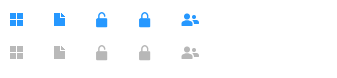
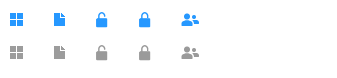
필터 팝업레이어 디자인 수정

diff --git a/mago3d-user/src/main/resources/static/css/ko/user-style.css b/mago3d-user/src/main/resources/static/css/ko/user-style.css
@@ -5442,23 +5442,23 @@ span.sumnail {float:right; width:50px; height:50px; border:1px solid #e9e8e8;}
 .layer-ttl-large {clear:both; display:block; width:auto; height:28px; font-size:18px; border-bottom:1px solid #d9dadb; margin-bottom:10px;}
 .layer-bx {display:flex; flex-wrap:wrap; width:100%; margin:0 auto;}
 .layer-bx .layer-list {display:inline-block; width:55px; text-align:center; margin-bottom:10px;}
-.layer-bx .layer-list .icon {display:inline-block; width:24px; height:24px; cursor:pointer; margin-bottom:3px; text-align:center;  border-radius:50px; border:1px solid #d9dadb;}
+.layer-bx .layer-list .icon {display:inline-block; width:26px; height:26px; cursor:pointer; margin-bottom:3px; text-align:center;  border-radius:50px; border:1px solid #ededed;}
 .layer-bx .layer-list .txt {clear:both; width:55px;  display:inline-block; color:#636363; font-size:11px; text-align:center;}
-.layer-bx .layer-list .common {display:inline-block; background:url(/images/ko/ic_filter.png) -4px -40px no-repeat;}
-.layer-bx .layer-list .open {display:inline-block; background:url(/images/ko/ic_filter.png) -89px -40px no-repeat;}
-.layer-bx .layer-list .notopen {display:inline-block; background:url(/images/ko/ic_filter.png) -132px -40px no-repeat;}
-.layer-bx .layer-list .group {display:inline-block; background:url(/images/ko/ic_filter.png) -177px -40px no-repeat;}
-.layer-bx .layer-list .file {display:inline-block; background:url(/images/ko/ic_filter.png) -47px -40px no-repeat;}
-.layer-bx .layer-list .common:hover, .layer-bx .layer-list .common:focus {display:inline-block; background:url(/images/ko/ic_filter.png) -4px -7px no-repeat;}
+.layer-bx .layer-list .common {display:inline-block; background:#f6f6f6 url(/images/ko/ic_filter.png) -3px -39px no-repeat;}
+.layer-bx .layer-list .open {display:inline-block; background:#f6f6f6 url(/images/ko/ic_filter.png) -89px -40px no-repeat;}
+.layer-bx .layer-list .notopen {display:inline-block; background:#f6f6f6 url(/images/ko/ic_filter.png) -132px -40px no-repeat;}
+.layer-bx .layer-list .group {display:inline-block; background:#f6f6f6 url(/images/ko/ic_filter.png) -177px -40px no-repeat;}
+.layer-bx .layer-list .file {display:inline-block; background:#f6f6f6 url(/images/ko/ic_filter.png) -46px -39px no-repeat;}
+.layer-bx .layer-list .common:hover, .layer-bx .layer-list .common:focus {display:inline-block; background:url(/images/ko/ic_filter.png) -3px -6px no-repeat;}
 .layer-bx .layer-list .open:hover, .layer-bx .layer-list .open:focus {display:inline-block; background:url(/images/ko/ic_filter.png) -89px -7px no-repeat;}
 .layer-bx .layer-list .notopen:hover, .layer-bx .layer-list .notopen:focus {display:inline-block; background:url(/images/ko/ic_filter.png) -132px -7px no-repeat;}
 .layer-bx .layer-list .group:hover, .layer-bx .layer-list .group:focus {display:inline-block; background:url(/images/ko/ic_filter.png) -177px -7px no-repeat;}
-.layer-bx .layer-list .file:hover, .layer-bx .layer-list .file:focus {display:inline-block; background:url(/images/ko/ic_filter.png) -47px -7px no-repeat;}
-.layer-bx .layer-list.on .common {display:inline-block; background:url(/images/ko/ic_filter.png) -4px -7px no-repeat;}
+.layer-bx .layer-list .file:hover, .layer-bx .layer-list .file:focus {display:inline-block; background:url(/images/ko/ic_filter.png) -46px -6px no-repeat;}
+.layer-bx .layer-list.on .common {display:inline-block; background:url(/images/ko/ic_filter.png) -3px -6px no-repeat;}
 .layer-bx .layer-list.on .open {display:inline-block; background:url(/images/ko/ic_filter.png) -89px -7px no-repeat;}
 .layer-bx .layer-list.on .notopen {display:inline-block; background:url(/images/ko/ic_filter.png) -132px -7px no-repeat;}
-.layer-bx .layer-list.on .group {display:inline-block; background:url(/images/ko/ic_filter.png) -177px -7px no-repeat;}
-.layer-bx .layer-list.on .file {display:inline-block; background:url(/images/ko/ic_filter.png) -47px -7px no-repeat;}
+.layer-bx .layer-list.on .group {display:inline-block; background:url(/images/ko/ic_filter.png) -175px -4px no-repeat;}
+.layer-bx .layer-list.on .file {display:inline-block; background:url(/images/ko/ic_filter.png) -46px -6px no-repeat;}
 .layer-bx .layer-list.on .txt {color:#2674ff;}
 
 .popuplayer-btn {clear:both; position:relative; bottom:0; left:0; height:30px; margin-top:0; text-align:right; width:auto;}
